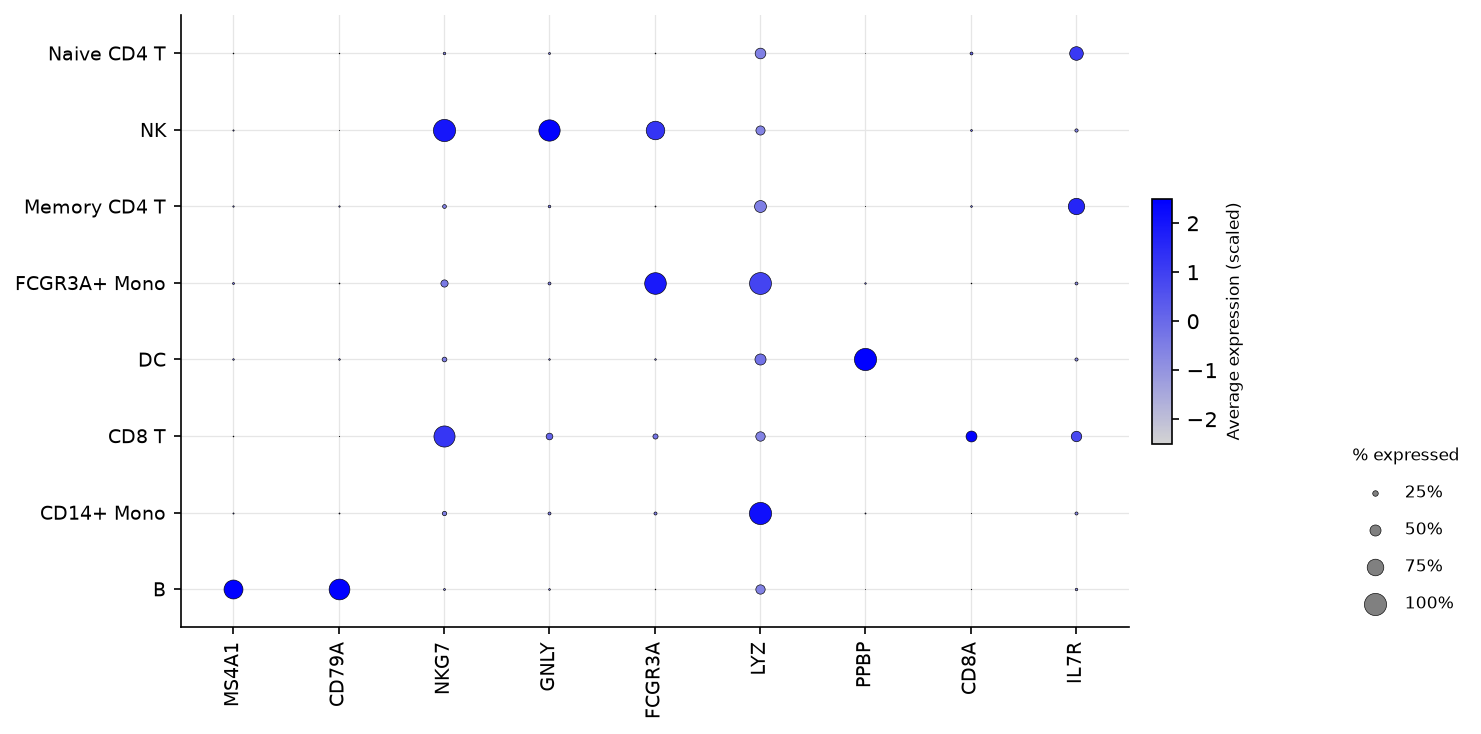
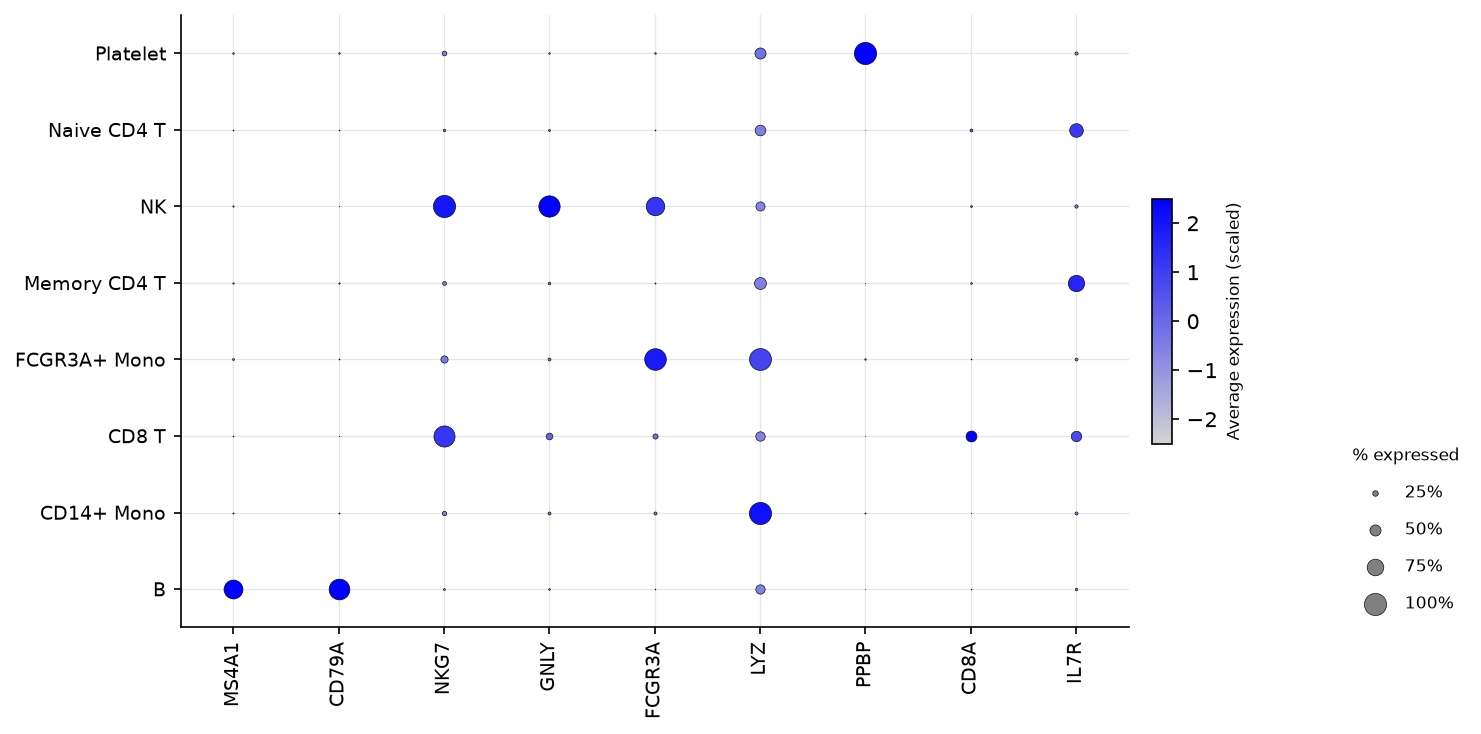
Label the platelet cluster as platelets, not DC
tutorials/generate_plots.py carried Seurat's nine new.cluster.ids while this
pipeline resolves eight — DC merges into CD14+ Mono at resolution 0.5 — and
rename_idents is positional, so every label from position 7 on slid by one.
The 14-cell platelet cluster (PPBP 5.85, FCER1A 0.00) was captioned "DC" in
the annotated UMAP, the tutorial's headline figure, and "Platelet" was never
applied to anything. This shipped in 1.0.0.

The rest of the repository already had it right: pbmc3k_tutorial.md prints the
corrected eight-entry map beside the figure drawn from the stale one, and
tutorials/README.md states all 32 DC cells land in CD14+ Mono. The file that
draws the pictures was the one that lagged.

The guard test existed and was correct — it just never ran, because
test_tutorial_smoke.py is opt-in and excluded from CI. It now also asserts that
the map's keys are exactly the cluster ids produced, which names a length
mismatch directly rather than inferring it from a marker landing in the wrong
cluster; the old assertion reported this as "FCER1A is highest in CD14+ Mono",
which describes the clustering and reads like a false alarm.

Seven figures regenerated: dropping DC from the label set also shifts the
alphabetical palette assignment, so the cluster-coloured panels move too.
10_marker_heatmap.png correctly does not — it restores cluster numbers first.

diff --git a/tutorials/generate_plots.py b/tutorials/generate_plots.py
@@ -37,14 +37,23 @@ from truecell.plotting import (
 FIGURES = Path(__file__).parent / "figures"
 FIGURES.mkdir(exist_ok=True)
 
-# Seurat's `new.cluster.ids` for pbmc3k at resolution 0.5, in cluster order.
-# Verified against the clusters this pipeline actually produces rather than
-# copied: cluster 1 is LYZ 5.07 / CD14 1.51 (monocytes), cluster 2 is IL7R 1.63
-# (memory T), cluster 3 is MS4A1 2.14 (B), cluster 4 is NKG7 3.41 with GNLY low
-# (CD8 T, against cluster 6's GNLY 4.28 for NK). An earlier version of this map
-# had 1<->2 and 3<->4 transposed, which put monocyte names on the T-cell
-# compartment in every labelled figure. `test_cell_type_map_matches_the_markers`
-# now fails if the numbering drifts again.
+# Cluster number -> cell type, for the clusters *this* pipeline produces at
+# resolution 0.5. Eight, not Seurat's nine: DC is absorbed into CD14+ Mono at
+# this resolution, so the last cluster is the platelets. This must stay in step
+# with the `cell_type_map` in Step 12 of `pbmc3k_tutorial.md`, which the figures
+# below illustrate — the two are the same map written twice.
+#
+# `rename_idents` is positional, so a wrong *length* here is worse than a wrong
+# name: carrying Seurat's ninth entry shifted every label from position 7 on,
+# and the platelet cluster (14 cells, PPBP 5.85) was captioned "DC" in the
+# annotated UMAP while no cluster carried "Platelet" at all. Before that, 1<->2
+# and 3<->4 were transposed and the monocyte compartment wore T-cell names.
+# Both shipped. `test_cell_type_map_matches_the_markers` now pins the labels
+# *and* the cluster ids against the data — but it is opt-in and does not run in
+# CI, which is why the second one survived a release. Run it before changing
+# anything here:
+#
+#   TRUECELL_TUTORIAL_SMOKE=1 pytest tests/test_tutorial_smoke.py -k cell_type
 CELL_TYPE_MAP = {
     "0": "Naive CD4 T",
     "1": "CD14+ Mono",
@@ -53,14 +62,18 @@ CELL_TYPE_MAP = {
     "4": "CD8 T",
     "5": "FCGR3A+ Mono",
     "6": "NK",
-    "7": "DC",
-    "8": "Platelet",
+    "7": "Platelet",
 }
 
 # The marker each label must lead on, for the guard test. Chosen for being
 # *discriminative*, not merely canonical: IL7R is the textbook CD4 marker but is
 # expressed by both T subsets, and S100A4 peaks in monocytes, so neither
 # separates naive from memory. CCR7 and IL7R do.
+#
+# DC keeps its entry although no cluster currently carries the label: this is the
+# panel, not a description of what the pipeline resolved. FCER1A is the reason DC
+# cannot simply be re-added to the map on sight — it peaks in CD14+ Mono here
+# (0.164, against 0.000 in the platelet cluster), which is what "absorbed" means.
 CELL_TYPE_MARKER = {
     "Naive CD4 T": "CCR7",
     "CD14+ Mono": "CD14",
@@ -82,7 +95,14 @@ def _save(fig, name):
     print(f"  Saved {path.name}")
 
 
-def run_pipeline(data_dir=None):
+def run_pipeline_unlabelled(data_dir=None):
+    """The pipeline up to clustering, idents still numeric.
+
+    Split out so the guard test can ask which clusters the pipeline actually
+    resolved. Once ``rename_idents`` has run that question cannot be asked —
+    the numbering is gone, and a map of the wrong length looks exactly like a
+    map of the right one.
+    """
     print("Running pipeline...")
     counts, genes, cells = pbmc3k(data_dir=data_dir)
     pbmc = create_truecell_object(
@@ -102,6 +122,11 @@ def run_pipeline(data_dir=None):
     find_neighbors(pbmc, dims=range(10), k_param=20)
     find_clusters(pbmc, resolution=0.5, algorithm=1, random_seed=0)
     run_umap(pbmc, dims=range(10), reduction_name="umap", seed=42)
+    return pbmc, hvg
+
+
+def run_pipeline(data_dir=None):
+    pbmc, hvg = run_pipeline_unlabelled(data_dir)
     all_markers = find_all_markers(pbmc, only_pos=True, min_pct=0.25, logfc_threshold=0.25)
     pbmc.rename_idents(CELL_TYPE_MAP)
     print("Pipeline complete.")

diff --git a/tests/test_tutorial_smoke.py b/tests/test_tutorial_smoke.py
@@ -349,6 +349,36 @@ def test_xenium_moransi_matches_seurats_weighting():
     assert centroids.radius() == pytest.approx(42.82543, abs=1e-5)   # R: 42.82543
 
 
+def test_cell_type_map_covers_exactly_the_clusters_produced():
+    """The hand-written map must have one entry per cluster, and no spares.
+
+    ``rename_idents`` is positional, so a map of the wrong *length* is worse than
+    one with a wrong name in it — every label from the mismatch onward slides to
+    a different cluster. The map carried Seurat's nine entries while this
+    pipeline resolves eight (DC merges into CD14+ Mono at resolution 0.5), which
+    captioned the 14-cell platelet cluster "DC" in the annotated UMAP and left
+    "Platelet" unused. It shipped in 1.0.0, and `pbmc3k_tutorial.md` printed the
+    corrected eight-entry map beside the figure drawn from the stale one.
+
+    Checked separately from the marker test below because it localises the fault:
+    this one says the map is the wrong shape, that one says a name is on the
+    wrong cluster.
+    """
+    if not (DATA_ROOT / "pbmc3k").is_dir():
+        pytest.skip("dataset 'pbmc3k' not cached")
+
+    sys.path.insert(0, str(REPO_ROOT))
+    from tutorials.generate_plots import CELL_TYPE_MAP, run_pipeline_unlabelled
+
+    pbmc, _ = run_pipeline_unlabelled()
+    produced = {str(i) for i in pbmc.idents}
+    assert set(CELL_TYPE_MAP) == produced, (
+        f"CELL_TYPE_MAP keys {sorted(CELL_TYPE_MAP)} do not match the clusters "
+        f"the pipeline produced {sorted(produced)} — rename_idents is positional, "
+        f"so the labels are now on the wrong clusters."
+    )
+
+
 def test_cell_type_map_matches_the_markers():
     """Every hardcoded label must lead on its own canonical marker.
 
@@ -360,12 +390,17 @@ def test_cell_type_map_matches_the_markers():
     figures still rendered, still looked like a PBMC UMAP, and were wrong.
 
     This asserts the labels against the data instead of trusting the map.
+
+    Iterates the *map* rather than the marker panel. The panel carries DC, which
+    no cluster currently earns, and asking where FCER1A peaks is then a question
+    about the clustering rather than about the labelling — it was the previous
+    version's only failure, and it reported a naming fault for a merge.
     """
     if not (DATA_ROOT / "pbmc3k").is_dir():
         pytest.skip("dataset 'pbmc3k' not cached")
 
     sys.path.insert(0, str(REPO_ROOT))
-    from tutorials.generate_plots import CELL_TYPE_MARKER, run_pipeline
+    from tutorials.generate_plots import CELL_TYPE_MAP, CELL_TYPE_MARKER, run_pipeline
 
     pbmc, _, _ = run_pipeline()
     assay = pbmc.assays[pbmc.active_assay]
@@ -374,7 +409,11 @@ def test_cell_type_map_matches_the_markers():
     X = np.asarray(data.todense() if hasattr(data, "todense") else data, dtype=float)
     idents = np.asarray([str(i) for i in pbmc.idents])
 
-    for label, marker in CELL_TYPE_MARKER.items():
+    missing = set(CELL_TYPE_MAP.values()) - set(CELL_TYPE_MARKER)
+    assert not missing, f"no discriminative marker declared for {sorted(missing)}"
+
+    for label in CELL_TYPE_MAP.values():
+        marker = CELL_TYPE_MARKER[label]
         row = X[features.index(marker)]
         means = {lab: row[idents == lab].mean() for lab in set(idents)}
         winner = max(means, key=means.get)

diff --git a/CHANGELOG.md b/CHANGELOG.md
@@ -20,6 +20,30 @@ and this project adheres to [Semantic Versioning](https://semver.org/spec/v2.0.0
 
 ### Fixed
 
+- **The annotated PBMC 3k UMAP captioned the platelet cluster "DC".** Shipped in
+  1.0.0. `tutorials/generate_plots.py` carried Seurat's nine `new.cluster.ids`
+  while this pipeline resolves eight — DC merges into CD14+ Mono at resolution
+  0.5 — and `rename_idents` is positional, so every label from position 7 on
+  slid by one. The 14-cell platelet cluster (PPBP 5.85, FCER1A 0.00) was
+  labelled DC, and "Platelet" was never applied to anything.
+
+  What makes this one worth reading twice: **the rest of the repository already
+  had it right.** `pbmc3k_tutorial.md` prints the corrected eight-entry map
+  directly beside the figure drawn from the stale one, and `tutorials/README.md`
+  states that all 32 DC cells land in CD14+ Mono. One file lagged, and it was
+  the file that draws the pictures. Seven figures are regenerated here — the
+  label set also changes the alphabetical palette assignment, so the two
+  cluster-coloured panels move too. `10_marker_heatmap.png` correctly does not:
+  it restores cluster numbers before drawing.
+
+  The guard test existed and was correct. It never ran: `test_tutorial_smoke.py`
+  is opt-in and excluded from CI by design, so nothing failed. It now also
+  asserts that the map's keys are exactly the cluster ids produced, which
+  catches a length mismatch directly instead of inferring it from a marker
+  landing in the wrong place — the old assertion reported this defect as
+  "FCER1A is highest in CD14+ Mono", which describes the clustering rather than
+  the labelling and reads like a false alarm.
+
 - **The PBMC 3k guided tutorial documented a clustering ARI of 0.938 while
   measuring 0.899**, across six files (`tutorials/README.md` ×2,
   `pbmc3k_tutorial.md` ×2, `docs/fidelity.md`, `docs/quickstart.md`). The
